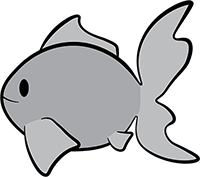
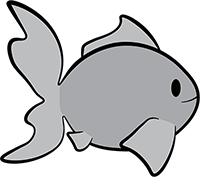
updated goldfish, game canvas

diff --git a/src/goldfish.ts b/src/goldfish.ts
@@ -4,7 +4,6 @@ import Config from "./config";
 
 export class Goldfish extends ex.Actor{
     private newPos = new ex.Vector(200,200);
-    private isMoving = false; 
     private deciding = 0;
     private startPosition: ex.Vector;
     private halfWay = new ex.Vector(0,0)
@@ -23,22 +22,28 @@ export class Goldfish extends ex.Actor{
     }
     
     onInitialize(engine: ex.Engine){
-        const fish = Resources.Goldfish.asSprite()
+        const fishLeft = Resources.goldfishLeft.asSprite()
+        const fishRight = Resources.goldfishRight.asSprite()
         let r = Math.floor(Math.random() * 255);
         let g = Math.floor(Math.random() * 255);
         let b = Math.floor(Math.random() * 255);
-        fish.colorize(new ex.Color(r,g,b,100));
-        this.addDrawing("right", fish );
-        console.log(`anchor: ${this.anchor}`);
-        
+        fishLeft.colorize(new ex.Color(r,g,b,100));
+        fishRight.colorize(new ex.Color(r,g,b,100));
+        this.addDrawing("left", fishLeft );
+        this.addDrawing("right", fishRight );       
     }
 
     private onPreCollision(evt: ex.PreCollisionEvent){
 
     }
     onPostUpdate(engine: ex.Engine){
-
-       
+        if(this.vel.x > 0)
+        {
+            this.setDrawing("right");
+        }
+        else{
+            this.setDrawing("left");
+        }
         this.randomMove();
         this.checkCollision();
         this.swim();
@@ -81,14 +86,7 @@ export class Goldfish extends ex.Actor{
     }
     private swim(){
         console.log("swimming");
-        console.log(`vel: ${this.vel}`);
-        if(Math.ceil(this.pos.x) === this.newPos.x && Math.ceil(this.pos.y) === this.newPos.y)
-        {
-            this.vel = new ex.Vector(0,0);
-            this.isMoving = false;
-            this.startPosition = this.pos;
-            return;
-        }
+        //console.log(`vel: ${this.vel}`);
          //moving into positive x
          if(this.xdif > 0)
          {

diff --git a/index.html b/index.html
@@ -7,14 +7,19 @@
     <link rel="stylesheet" href="bubble.scss" />
     <link rel="preconnect" href="https://fonts.googleapis.com">
     <link rel="preconnect" href="https://fonts.gstatic.com" crossorigin>
-    <link href="https://fonts.googleapis.com/css2?family=Lilita+One&display=swap" rel="stylesheet"> 
+    <link href="https://fonts.googleapis.com/css2?family=Architects+Daughter&Lilita+One&display=swap" rel="stylesheet"> 
   </head>
   <body>
     <div class="top-nav">
         <h1 class="logo">Goldfish Simulator</h1>
     </div>
-    <div class="center">
-      <canvas id="game"></canvas>
+    <div class="container">
+      <div class="name">
+        <h2 class="fish-name">Test</h2>
+      </div>
+      <div class="center">
+        <canvas id="game"></canvas>
+      </div>
     </div>
     <div class="bubbles">
       <div class="bubble"></div>

diff --git a/src/index.ts b/src/index.ts
@@ -1,4 +1,4 @@
-import { Engine, Loader } from "excalibur";
+import { Color, Engine, Loader } from "excalibur";
 import { Goldfish } from "./goldfish";
 import { Resources } from "./resources";
 import Config from "./config";
@@ -9,13 +9,15 @@ class Game extends Engine {
       width: Config.GameWidth,
       height: Config.GameHeight,
       canvasElementId: 'game',
+      backgroundColor: new Color(64, 201,222, 0.5)
     })
   }
   initialize() {
     const goldfish = new Goldfish();
     this.add(goldfish);
     const loader = new Loader();
-    loader.addResource(Resources.Goldfish);
+    loader.addResource(Resources.goldfishLeft);
+    loader.addResource(Resources.goldfishRight);
     this.start(loader);
   }
 }

diff --git a/style.css b/style.css
@@ -19,6 +19,9 @@ body{
     margin: 0;
 }
 canvas{
+    background-image: url("./src/images/background.png");
+    overflow: hidden;
+    background-repeat: no-repeat;
     border-style: solid;
     border-width: 1rem;
     border-color: rgb(49, 50, 51);
@@ -34,6 +37,18 @@ h1{
     display: flex;
     justify-content: center;
     align-items: center;
+}
+.container{
+    justify-content: center;
+}
+.fish-name{
+    font-family: 'Architects Daughter', cursive;
+    background-color: blanchedalmond;
+    width: 25rem
+}
+.name{
+
+    text-align: center;
 }
 .top-nav{
     background-color: #2d2c29;

diff --git a/src/resources.ts b/src/resources.ts
@@ -1,8 +1,10 @@
 import { Resource, Texture } from "excalibur";
 import goldfishLeft from "./images/goldfish-left.png"
+import goldfishRight from "./images/goldfish-right.png"
 
 let Resources = {
-  Goldfish: new Texture(goldfishLeft),
+  goldfishLeft: new Texture(goldfishLeft),
+  goldfishRight: new Texture(goldfishRight),
 };
 
 export { Resources };
